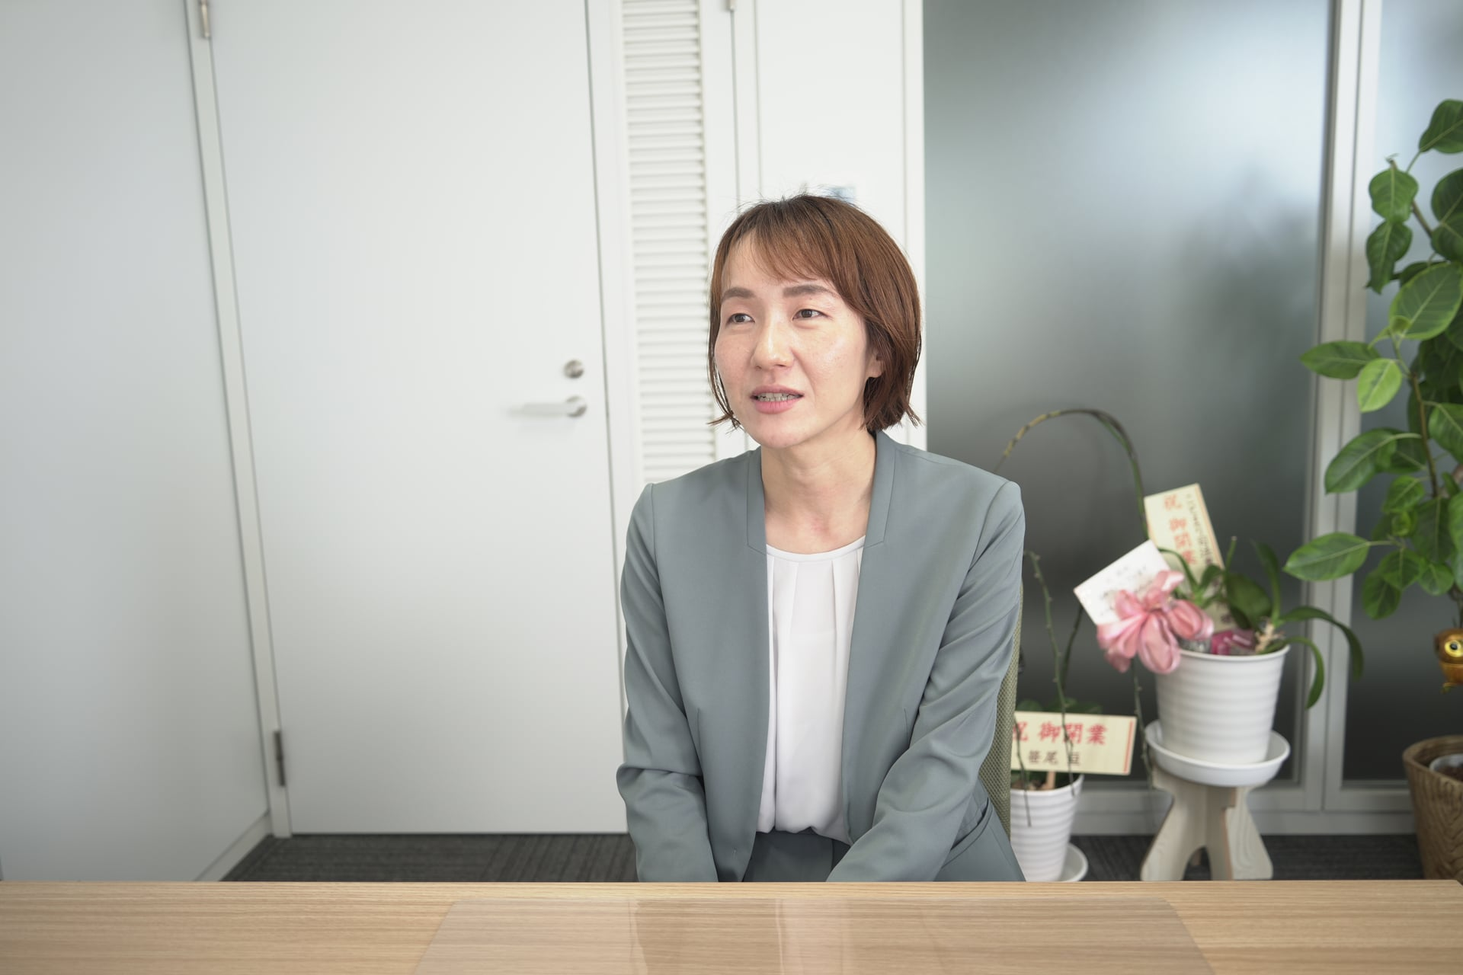
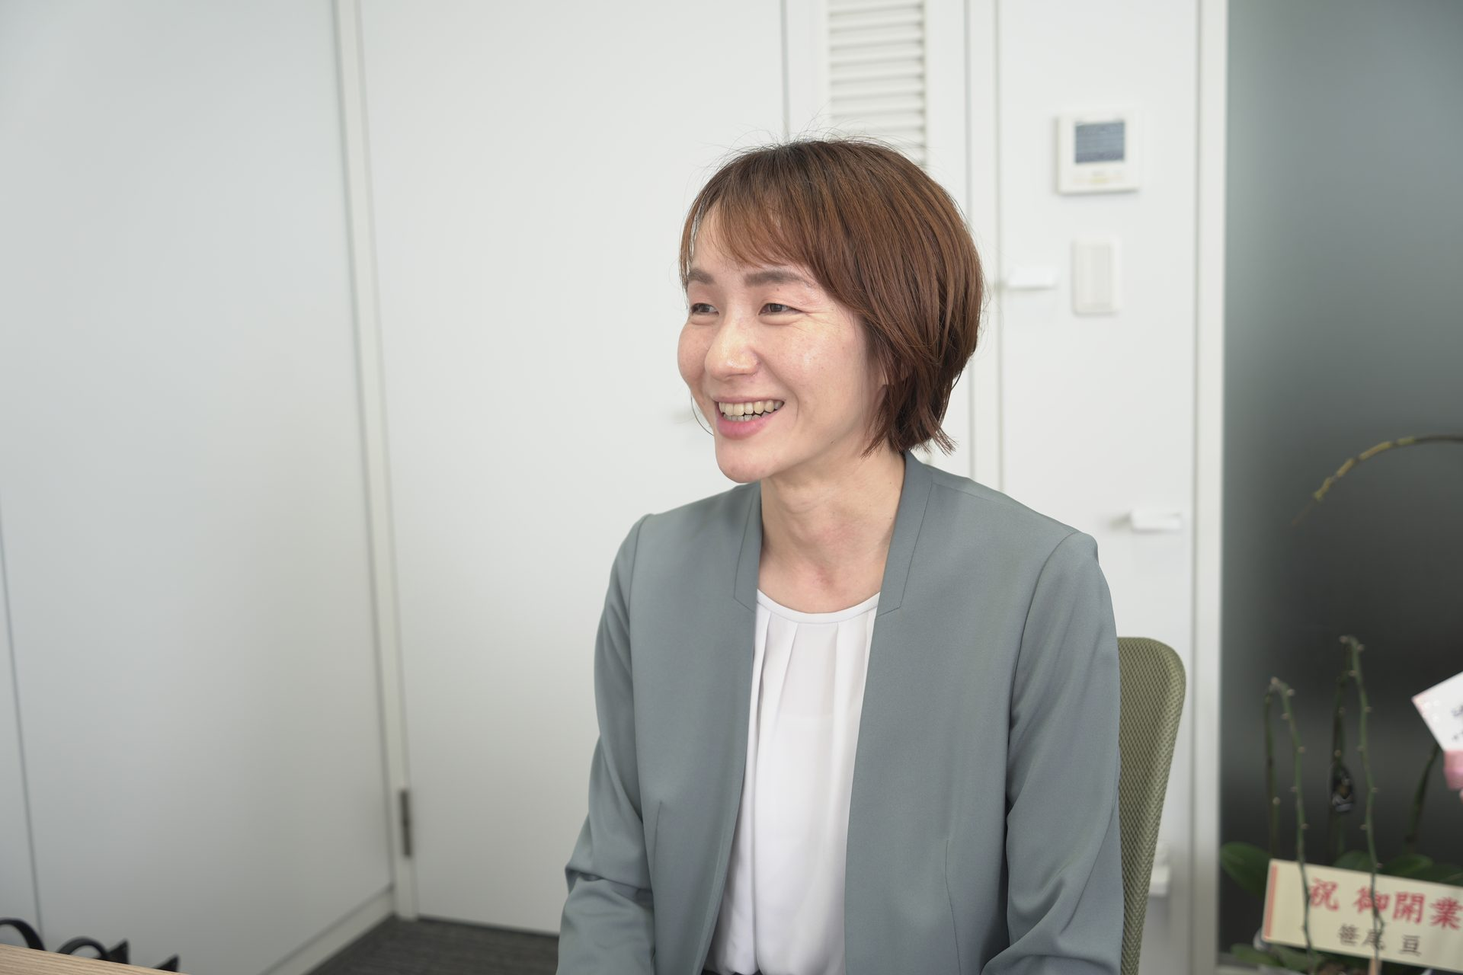
fix: 小泊さんの記事の文言修正と詳細ページの写真を差し替え

diff --git a/data/companies.ts b/data/companies.ts
@@ -3307,7 +3307,7 @@ export const companies: Company[] = [
       },
       {
         title: "自分に嘘をつかず、誠実に——自然体で向き合うということ",
-        content: "Q. 依頼者の方と向き合う上で、特に大切にされていることはありますか？\n\nできるだけ、素の自分でお客様と接することを心がけています。\n\n司法書士というのは、お客様の人生の節目に関わらせていただくことが多い仕事なんです。\n\n例えば、結婚して家を購入するときや、離婚に伴って財産分与をするとき。ご家族が認知症になり、成年後見のことを考えるときもありますし、ご家族が亡くなられて相続登記が必要になることもあります。\n\nまた、借金が膨らんでしまい、債務整理や破産手続きが必要になる場合もあります。\n\nどれも人生の中で、そう何度も経験することではありませんよね。\n\nですから、お客様の中には、司法書士と接すること自体が初めてという方もたくさんいらっしゃいます。\n\n「司法書士って何をする人なんだろう」「法律の難しいことを聞かれたらどうしよう」と、緊張や不安を感じながら相談に来られる方もいると思うんです。\n\nそんなときに、私自身があまり堅苦しく構えていると、お客様も余計に緊張してしまうかもしれません。\n\nだからこそ、できるだけ普段の自分のままで接することで、お客様にもリラックスしていただけたらと思っています。\n\nそれに、私自身、無理に取り繕っていてもしんどいですし、自分以上のものは出せないと思っているんです。\n\n背伸びをして何かをよく見せようとするのではなく、自分に嘘をつかず、誠実に向き合うこと。それが、いい仕事につながるのではないかなと思っています。\n\nQ. ご自身が自然体でいることで、お客様も心を開きやすくなるのでしょうか？\n\nそうですね。自分が自然体で接していれば、相手の方も少しずつ素の自分を見せてくださるのかなと思っています。\n\nこれはもともとの私の性格もあるのですが、人と接していると、少し取り繕っているのかなと感じることがあるんです。\n\nそういう方を見ると、その人の本来の姿をちょっと見てみたくなるんですよね（笑）。\n\nもちろん、誰もがすぐに心を開いてくださるわけではありませんし、最後までなかなか本音が見えないこともあります。\n\nでも、お話を重ねる中で、少しずつその方が自分らしく話してくださるようになると、私もうれしくなるんです。\n\n最初は緊張していた方が、だんだん自然な表情になって、ご自身のことを話してくださる。そういう関わり方ができるのは、私にとってもうれしいことですね。\n\n仕事だからといって、必要以上に自分をつくるのではなく、お互いが自然体で話せるような関係を大切にしていきたいと思っています。",
+        content: "Q. 依頼者の方と向き合う上で、特に大切にされていることはありますか？\n\nできるだけ、素の自分でお客様と接することを心がけています。\n\n司法書士というのは、お客様の人生の節目に関わらせていただくことが多い仕事なんです。\n\n例えば、結婚して家を購入するときや、離婚に伴って財産分与をするとき。ご家族が認知症になり、成年後見のことを考えるときもありますし、ご家族が亡くなられて相続登記が必要になることもあります。\n\nまた、借金が膨らんでしまい、債務整理や破産手続きが必要になる場合もあります。\n\nどれも人生の中で、そう何度も経験することではありませんよね。\n\nですから、お客様の中には、司法書士と接すること自体が初めてという方もたくさんいらっしゃいます。\n\n「司法書士って何をする人なんだろう」「法律の難しいことを聞かれたらどうしよう」と、緊張や不安を感じながら相談に来られる方もいると思うんです。\n\nそんなときに、私自身があまり堅苦しく構えていると、お客様も余計に緊張してしまうかもしれません。\n\nだからこそ、できるだけ普段の自分のままで接することで、お客様にもリラックスしていただけたらと思っています。\n\nそれに、私自身、無理に取り繕っていてもしんどいですし、自分以上のものは出せないと思っているんです。\n\n背伸びをして何かをよく見せようとするのではなく、自分に嘘をつかず、誠実に向き合うこと。それが、いい仕事につながるのではないかなと思っています。\n\nQ. ご自身が自然体でいることで、お客様も心を開きやすくなるのでしょうか？\n\nそうですね。自分が自然体で接していれば、相手の方も少しずつ素の自分を見せてくださるのかなと思っています。\n\nもちろん、誰もがすぐに心を開いてくださるわけではありませんし、最後までなかなか本音が見えないこともあります。\n\nでも、お話を重ねる中で、少しずつその方が自分らしく話してくださるようになると、私もうれしくなるんです。\n\n最初は緊張していた方が、だんだん自然な表情になって、ご自身のことを話してくださる。そういう関わり方ができるのは、私にとってもうれしいことですね。\n\n仕事だからといって、必要以上に自分をつくるのではなく、お互いが自然体で話せるような関係を大切にしていきたいと思っています。",
       },
       {
         title: "「自分だけじゃない」——多くの出会いがあるからこそ届けられるもの",
@@ -3315,15 +3315,15 @@ export const companies: Company[] = [
       },
       {
         title: "真面目に頑張る女性たちのために、自分にできることを",
-        content: "Q. シングルマザーや、生きづらさを抱える女性の支援にも関心をお持ちだと伺いました。その背景には、どのような想いがあるのでしょうか？\n\n実は、まだ具体的に何をしていきたいのか、はっきりとまとまっているわけではないんです。\n\nただ、以前から何かできることはないかなと考えていました。\n\nきっかけは、身近なところにシングルマザーの方が多いことです。家族や友人など、私の周囲にもいらっしゃいます。\n\nそうした方々を見ていて感じるのが、とても真面目で、しっかりしている方が多いということなんです。\n\n自分のことよりも、周りの人のことを大切にしていたり、仕事も子育ても一生懸命に頑張っていたり。\n\nそれなのに、社会的には弱い立場に置かれているように感じることがあって、自分の立場で何かできることはないのかなと考えるようになりました。\n\n今は共働きの家庭も多いですし、仕事をしながら子育ても頑張っている女性はたくさんいらっしゃると思います。\n\nそういう方々を見ていると、少し頑張りすぎているのかなと感じることもあります。\n\nもちろん、離婚することが悪いというわけではありませんし、夫婦のことはそれぞれに事情があります。\n\nただ、どうすれば夫婦がお互いに協力して生活していけるのだろうとか、どんな考え方があれば、もう少し楽に過ごせるのだろうとか、そういうことを考える機会は多いですね。\n\n私自身が何か大きなことができるのかと言われると、まだ分かりません。\n\nでも、まずは悩んでいる方のお話を聞くことからでも、できることがあるのではないかなと思っています。\n\nQ. 悩みを抱える女性に対して、具体的にはどのような関わり方を考えていらっしゃいますか？\n\n悩んでいるときって、誰かに話すだけでも、自分の頭の中が整理されることがありますよね。\n\n一人で考えていると、同じことをずっと考えてしまったり、どんどん気持ちが沈んでしまったりすることもあると思うんです。\n\n特に、離婚や家庭のことで悩んでいるときは、表情まで暗くなってしまうことがあります。\n\nそういうときに、少しでも視野が広がれば、気持ちが楽になることもあるのではないかなと思っています。\n\n例えば、同じような立場の方々が集まって、お互いに話をしたり、情報交換をしたりできる場があってもいいのかなと。\n\nそういう場を私が設けることも、一つの方法なのかもしれません。\n\nただ、現段階では、具体的にこういう活動を始めますと決まっているわけではないんです。\n\nどういう形がいいのか、何ができるのか、今もいろいろと考えているところです。\n\nその中で最近、自分の趣味と組み合わせて何かできないかなと思うようにもなりました。",
+        content: "Q. シングルマザーや、生きづらさを抱える女性の支援にも関心をお持ちだと伺いました。その背景には、どのような想いがあるのでしょうか？\n\n女性の支援に関心を持ったきっかけは、身近なところにシングルマザーの方が多いことです。\n\nみなさん、仕事も子育ても家事も一生懸命に頑張っていて、本当にすごいと思います。\n\nそれを見て、自分の立場で何かできることはないのかなと考えるようになりました。\n\nそういう方々を見ていると、少し頑張りすぎているのかなと感じることもありますので、\n\n何か少しでも心の余裕を作ることができれば、人に優しく接することができ、家庭の平和にも繋がると思います。\n\n私にできることはほんのわずかですが、まずは悩んでいる方のお話を聞くことからでも、できることがあるのではないかなと思っています。\n\nQ. 悩みを抱える女性に対して、具体的にはどのような関わり方を考えていらっしゃいますか？\n\n悩んでいるときって、誰かに話すだけでも、自分の頭の中が整理されることがありますよね。\n\n一人で考えていると、同じことをずっと考えてしまったり、どんどん気持ちが沈んでしまったりすることもあると思うんです。\n\n特に、離婚や家庭のことで悩んでいるときは、表情まで暗くなってしまうことがあります。\n\nそういうときに、少しでも視野が広がれば、気持ちが楽になることもあるのではないかなと思っています。\n\n例えば、同じような立場の方々が集まって、お互いに話をしたり、情報交換をしたりできる場があってもいいのかなと。\n\nそういう場を私が設けることも、一つの方法なのかもしれません。\n\nただ、現段階では、具体的にこういう活動を始めますと決まっているわけではないんです。\n\nどういう形がいいのか、何ができるのか、今もいろいろと考えているところです。\n\nその中で最近、自分の趣味と組み合わせて何かできないかなと思うようにもなりました。",
       },
       {
         title: "テニスがつないでくれる仲間と、気持ちの余裕",
-        content: "Q. ご自身の趣味というと、テニスでしょうか？\n\nそうなんです。私はテニスが趣味で、普段から楽しんでいます。\n\nテニスをしていると、仲間がどんどん増えていくんですよ。\n\nいろいろな方がいらっしゃいますが、コミュニケーション能力が高い方も多くて、初めて会ったのに、すぐに友達になったような感覚になることもあります。\n\nテニスをしているときもそうですが、休憩中に何気ない世間話をしているだけで、気持ちが楽になることがあるんです。\n\n特別に何か深い話をしているわけではなくても、誰かと話したり、一緒に過ごしたりすることが、気分転換になるんですよね。\n\nそういう関わりの中で仲間が増えて、時には悩みを相談できるような関係になることもあります。\n\nだから、女性の支援について考えていたときに、「テニスと何か組み合わせられないかな」と思ったんです。\n\n自分の趣味と仕事を、うまく一緒にできないかなと（笑）。\n\nもちろん、テニスをするにはある程度の時間も必要ですし、誰もが簡単に参加できるわけではないと思います。\n\nでも、そうした時間を持てるくらい、生活や気持ちに少し余裕ができたらいいですよね。\n\n一人で悩み続けるのではなく、誰かとつながったり、何気ない会話を楽しんだりすることで、少しでも気持ちが軽くなる。\n\nそんなきっかけをつくることができたらいいなと考えています。\n\nまだ思いついた段階ではありますが、自分自身がテニスを通じて感じてきたことを、何か別の形にも生かせないかなと思っています。",
+        content: "Q. ご自身の趣味というと、テニスでしょうか？\n\nそうなんです。私はテニスが趣味で、普段から楽しんでいます。\n\nテニスをしていると、仲間がどんどん増えていくんですよ。\n\nいろいろな方がいらっしゃいますが、コミュニケーション能力が高い方も多くて、初めて会ったのに、すぐに友達になったような感覚になることもあります。\n\nテニスをしているときもそうですが、休憩中に何気ない世間話をしているだけで、気持ちが楽になることがあるんです。\n\n特別に何か深い話をしているわけではなくても、誰かと話したり、一緒に過ごしたりすることが、気分転換になるんですよね。\n\nそういう関わりの中で仲間が増えて、時には悩みを相談できるような関係になることもあります。\n\nだから、女性の支援について考えていたときに、「スポーツと法務を何か組み合わせられないかな」と思ったんです。\n\n今、特に女性が運動をする回数がとても減ってきているとニュースで見ました。\n\nもちろん、スポーツをするにはある程度の余裕も必要ですし、誰もが簡単に参加できるわけではないと思います。\n\nでも、そうした時間を持てるくらい、生活や気持ちに少し余裕ができたらいいですよね。\n\n一人で悩み続けるのではなく、誰かとつながったり、何気ない会話を楽しんだりすることで、少しでも気持ちが軽くなる。\n\nそんなきっかけをつくることができたらいいなと考えています。\n\nまだ思いついた段階ではありますが、自分自身がテニスを通じて感じてきたことを、何か別の形にも生かせないかなと思っています。",
       },
       {
         title: "AIの時代だからこそ、会って感じる人の温もり",
-        content: "Q. これからAIの活用が進んでいく中で、人と人との関わりについてはどのように考えていますか？\n\n今は、何か相談したいことがあれば、AIに聞くという方も増えてきていますよね。\n\nこれからますますAIができることは増えていくでしょうし、私たち司法書士の仕事でも、AIに任せられる部分は任せていくことになると思います。\n\n最終的なチェックや判断は人間が行いながら、効率や生産性を高めていく。そういう方向になっていくのではないでしょうか。\n\nただ、AIが発達すればするほど、人間の温もりや気持ちの部分が、大切になってくるのではないかなとも思っています。\n\n効率だけを考えれば、AIに任せた方がいいことも増えていくかもしれません。\n\nだからこそ、人間らしさというものが、これまで以上に重要になってくるような気がするんです。\n\n例えば、オンラインで面談することもできますが、私はやっぱり、直接お会いすることも大切にしたいと思っています。\n\n実際に会って話すと、画面越しや電話だけでは分からないことを感じ取れる場合がありますよね。\n\n話し方や表情、その場の雰囲気など、直接会うからこそ伝わることもあると思うんです。\n\nもちろん、オンラインにも便利なところはたくさんありますが、人と直接会って感じるものも、これから大切にしていきたいですね。\n\nQ. 実際にお会いすることで、印象が変わった経験もありますか？\n\nちょうど先日、亀山の山奥まで、農地の売買に関する仕事で行ってきたんです。\n\n農地を売買するには農業委員会の許可が必要になるので、行政書士の先生と一緒に現地を確認しに行きました。\n\nその前に、農地を購入される74歳くらいの方と電話でお話ししたのですが、電話ではすごくぶっきらぼうな話し方だったんです。\n\n私のことを「お前」と呼ばれたりして（笑）。\n\n電話での印象だけでは、「どんな方なんだろう」と少し気になっていました。\n\nでも、実際に現地でお会いしてみると、とても優しい方だったんです。\n\n話し方が少し荒っぽいだけで、実際にはすごく親切にしてくださいました。\n\nそういう経験をすると、やっぱり会ってみないと分からないことって、たくさんあるなと思うんです。\n\nもちろん、会ってみたら逆の印象になることもありますけどね（笑）。\n\nでも、電話で話した印象だけで、その方がどういう人なのかを決めつけることはできないと思います。\n\n実際にお会いして、その方の雰囲気や人柄を感じながら関わっていく。\n\nそういうことを、私はこれからも大切にしていきたいですね。\n\nAIやオンラインの技術が発達して、いろいろなことが便利になるのはいいことだと思います。\n\nその一方で、直接会って話すことの大切さや、人と人との関わりの中で感じられるものも、忘れずにいたいなと思っています。",
+        content: "Q. これからAIの活用が進んでいく中で、人と人との関わりについてはどのように考えていますか？\n\n今は、何か相談したいことがあれば、AIに聞くという方も増えてきていますよね。\n\nこれからますますAIができることは増えていくでしょうし、私たち司法書士の仕事でも、AIに任せられる部分は任せていくことになると思います。\n\n最終的なチェックや判断は人間が行いながら、効率や生産性を高めていく。そういう方向になっていくのではないでしょうか。\n\nただ、AIが発達すればするほど、人間の温もりや気持ちの部分が、大切になってくるのではないかなとも思っています。\n\n効率だけを考えれば、AIに任せた方がいいことも増えていくかもしれません。\n\nだからこそ、人間らしさというものが、これまで以上に重要になってくるような気がするんです。\n\n例えば、オンラインで面談することもできますが、私はやっぱり、直接お会いすることも大切にしたいと思っています。\n\n実際に会って話すと、画面越しや電話だけでは分からないことを感じ取れる場合がありますよね。\n\n話し方や表情、その場の雰囲気など、直接会うからこそ伝わることもあると思うんです。\n\nもちろん、オンラインにも便利なところはたくさんありますが、人と直接会って感じるものも、これから大切にしていきたいですね。\n\nQ. 実際にお会いすることで、印象が変わった経験もありますか？\n\nそうですね、最初のお電話でお客様に、いきなりぶっきらぼうに「お前」と呼ばれたこともあります（笑）。\n\n電話での印象だけでは、「どんな方なんだろう」と少し気になっていました。\n\nでも、実際にお会いしてみると、とても優しい方だったんです。\n\n話し方が少し荒っぽいだけで、実際にはすごく親切にしてくださいました。\n\nそういう経験をすると、やっぱり会ってみないと分からないことって、たくさんあるなと思うんです。\n\nもちろん、会ってみたら逆の印象になることもありますけどね（笑）。\n\nでも、電話で話した印象だけで、その方がどういう人なのかを決めつけることはできないと思います。\n\n実際にお会いして、その方の雰囲気や人柄を感じながら関わっていく。\n\nそういうことを、私はこれからも大切にしていきたいですね。\n\nAIやオンラインの技術が発達して、いろいろなことが便利になるのはいいことだと思います。\n\nその一方で、直接会って話すことの大切さや、人と人との関わりの中で感じられるものも、忘れずにいたいなと思っています。",
       },
       {
         title: "悩んでいた時間を、自分と大切な人のための時間に",
